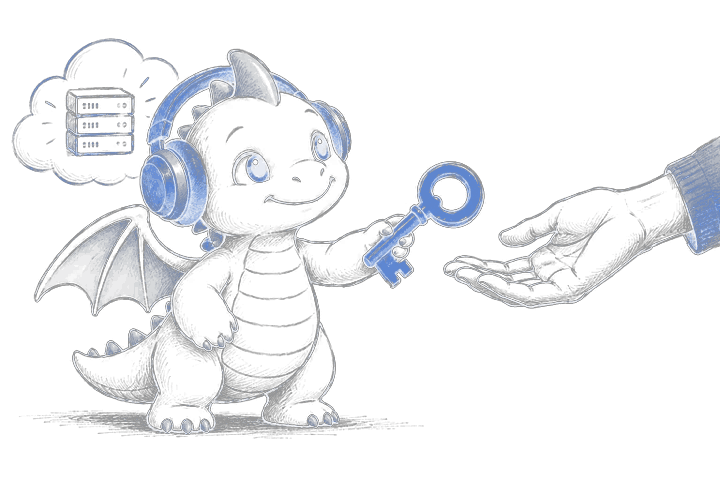
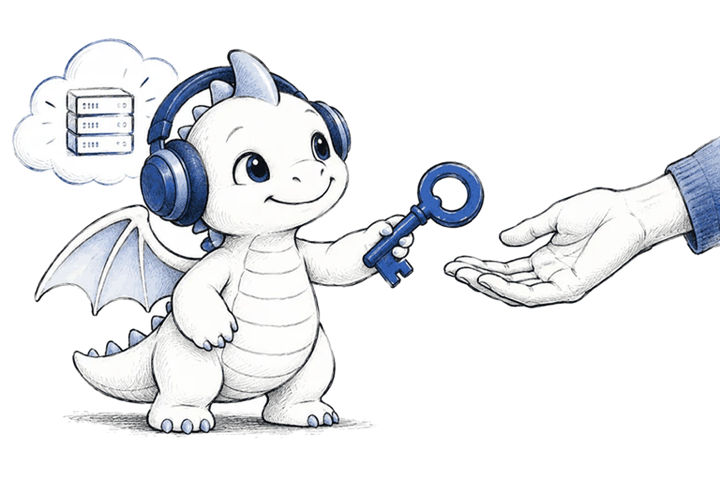
HPD-1105 v2: B1 - filled light dragon in dark mode, sign-in keeps the ink dragon
Justus chose variant B1 on 2026-10-09: the outline-only dark dragon read faint
and blurry on dark backgrounds. paywall-ink-key-dark.png is now the same
drawing with the figure filled light and the paper cut away (no panel). It
serves sign-in/create account and PaywallArt (paywall/offer/waitlist,
preparing/no plan/capacity, server deleted). The sign-in goes back to the ink
dragon instead of the baby dragon head; eyebrow, title and benefit stay
centered. Light mode unchanged.

diff --git a/native/src/surface.tsx b/native/src/surface.tsx
@@ -7943,12 +7943,8 @@ function NativeR8SurfaceBody({ initialDraft = "", navigationRequest, homeRequest
                 Google follow as equal buttons; the password form stays behind
                 a small link (HPD-1087); the mode switch is one quiet line. */}
             <View style={[styles.authCard, styles.paywallOffer]}>
-              {/* HPD-1105 v2 (Justus, 2026-10-09): the sign-in screens keep the
-                  previous icon, the baby dragon head from the front. The image
-                  is transparent, so light and dark mode need no panel. The
-                  paywall and preparing screens keep their ink dragon. */}
-              <View style={styles.authArt}>
-                <MobileWorkingDragon animated={false} accessibilityLabel="Hey Hermes" size={96} />
+              <View style={[styles.paywallArt, styles.authArt, Platform.OS === "ios" && resolvedColorScheme === "dark" && styles.paywallArtDark]}>
+                <Image source={Platform.OS === "ios" && resolvedColorScheme === "dark" ? paywallIllustrationDark : paywallIllustration} style={styles.paywallArtImage as ImageStyle} resizeMode="contain" accessibilityIgnoresInvertColors accessibilityLabel="Hey Hermes" />
               </View>
               <Text style={[styles.paywallEyebrow, styles.authCentered]}>{signInCopy.eyebrow}</Text>
               <Text style={[styles.paywallOfferTitle, styles.authCentered]} accessibilityRole="header">
@@ -10368,7 +10364,9 @@ const paywallBrandColor = Platform.OS === "ios" ? DynamicColorIOS({ light: "#1d4
 const paywallCtaColor = Platform.OS === "ios" ? DynamicColorIOS({ light: "#1d4ed8", dark: "#3563e9" }) : "#1d4ed8";
 const paywallCheckBackground = Platform.OS === "ios" ? DynamicColorIOS({ light: "#e8eefc", dark: "#1e2742" }) : "#e8eefc";
 const paywallIllustration = require("../assets/paywall-ink-key.png");
-// HPD-1105: transparent light-ink variant for dark mode (no white panel).
+// HPD-1105 v2 (Justus chose variant B1, 2026-10-09): for dark mode the same
+// drawing with its figure filled light and the paper cut away - crisp on a dark
+// background, no white panel. The earlier outline-only variant read faint.
 const paywallIllustrationDark = require("../assets/paywall-ink-key-dark.png");
 
 /**
@@ -13677,9 +13675,7 @@ const styles = StyleSheet.create({
     paddingBottom: 16,
   },
   authArt: {
-    alignItems: "center",
-    justifyContent: "center",
-    paddingTop: 8,
+    height: 120,
   },
   authCentered: {
     textAlign: "center",

diff --git a/native/test/hpd1105-sign-in.test.ts b/native/test/hpd1105-sign-in.test.ts
@@ -60,17 +60,25 @@ test("HPD-1085/HPD-1090: paywall, offer and preparing screens use the transparen
   assert.doesNotMatch(source, /<View style=\{styles\.paywallArt\}>/);
 });
 
-test("HPD-1105 v2: sign-in shows the previous front-facing baby dragon head, centered title and benefit", () => {
+test("HPD-1105 v2 (B1): sign-in keeps the ink dragon, dark mode uses the filled variant, headline centered", () => {
   const source = readFileSync(new URL("../src/surface.tsx", import.meta.url), "utf8");
   const start = source.indexOf("HPD-1105: the signed-out screen in the HPD-1085 paywall design.");
   const screen = source.slice(start, source.indexOf("</KeyboardAvoidingView>", start));
-  assert.match(screen, /<View style=\{styles\.authArt\}>\s*<MobileWorkingDragon animated=\{false\}/);
-  // No illustration and no white panel behind it on the sign-in screen.
-  assert.doesNotMatch(screen, /paywallIllustration/);
-  assert.doesNotMatch(screen, /styles\.paywallArt/);
+  assert.match(screen, /resolvedColorScheme === "dark" \? paywallIllustrationDark : paywallIllustration/);
+  assert.match(screen, /styles\.paywallArtDark/);
+  assert.doesNotMatch(screen, /<MobileWorkingDragon/);
+  assert.match(source, /const paywallIllustrationDark = require\("\.\.\/assets\/paywall-ink-key-dark\.png"\)/);
+  assert.match(screen, /\[styles\.paywallEyebrow, styles\.authCentered\]/);
   assert.match(screen, /\[styles\.paywallOfferTitle, styles\.authCentered\]/);
   assert.match(screen, /\[styles\.authBenefit, styles\.authCentered\]/);
   assert.match(source, /authCentered: \{\s*textAlign: "center"/);
-  // The paywall, offer and preparing screens keep their ink dragon.
+  // The paywall, offer, preparing and deleted screens share one component.
   assert.equal(source.match(/<PaywallArt \/>/g)?.length, 3);
+});
+
+test("HPD-1105 v2 (B1): the dark dragon is the filled drawing, transparent around the figure", () => {
+  const png = readFileSync(new URL("../assets/paywall-ink-key-dark.png", import.meta.url));
+  assert.equal(png.readUInt32BE(16), 720);
+  assert.equal(png.readUInt32BE(20), 480);
+  assert.equal(png[25], 6, "RGBA");
 });
